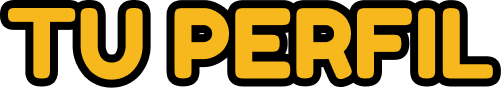
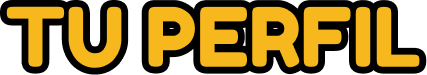
usuario niño done

diff --git a/front/usuarioniño/usuarioniño.css b/front/usuarioniño/usuarioniño.css
@@ -1,8 +1,6 @@
 body {
     background-color: #A3DFF2;
     display: flex;
-    width: 1440px;
-    height: 1024px;
 }
 
 @font-face {
@@ -28,11 +26,11 @@ img.visible {
 
 .cartel {
     position: absolute;
-    width: 1223px;
-    height: 825px;
+    width: 1114px;
+    height: 583px ;
     opacity: 1;
-    top: 99px;
-    left: 105px;
+    top: 80px;
+    left: 96px;
 }
 
 .pelo {
@@ -65,13 +63,13 @@ img.visible {
 
 .nombreyapellido {
     position: absolute;
-    top: 540px;
+    top: 390px;
     left: 200px;
     width: 652px;
     height: 58px;
     opacity: 1;
     font-family: "Fredoka One";
-    font-size: 48px;
+    font-size: 45px;
     line-height: 100%;
     letter-spacing: 0%;
     vertical-align: bottom;
@@ -84,13 +82,13 @@ img.visible {
 
 .ratio {
     position: absolute;
-    top: 640px;
+    top: 470px;
     left: 200px;
     width: 652px;
     height: 58px;
     opacity: 1;
     font-family: "Fredoka One";
-    font-size: 48px;
+    font-size: 45px;
     line-height: 100%;
     letter-spacing: 0%;
     vertical-align: bottom;
@@ -103,13 +101,13 @@ img.visible {
 
 .trofeos {
     position: absolute;
-    top: 740px;
+    top: 550px;
     left: 200px;
     width: 652px;
     height: 58px;
     opacity: 1;
     font-family: "Fredoka One";
-    font-size: 48px;
+    font-size: 45px;
     line-height: 100%;
     letter-spacing: 0%;
     vertical-align: bottom;
@@ -122,76 +120,76 @@ img.visible {
 
 .caminito {
     position: absolute;
-    width: 406px;
-    height: 558px;
+    width: 299.7705993652344px;
+    height: 412px;
     opacity: 1;
-    top: 276px;
-    left: 823px;
+    top: 221px;
+    left: 854px;
 }
 
 .tiritas {
     position: absolute;
-    width: 1070.41015625px;
-    height: 227.0563201904297px;
+    width: 1075px;
+    height: 159px;
     opacity: 1;
     top: -1px;
-    left: 184.09px;
+    left: 121px;
     z-index: 1000;
 }
 
 .circulo {
     position: absolute;
-    width: 100px;
-    height: 100px;
+    width: 80px;
+    height: 80px;
     opacity: 1;
-    top: 144px;
-    left: 160px;
+    top: 94px;
+    left: 123px;
 }
 
 .circulito {
     position: absolute;
-    width: 100px;
-    height: 100px;
+    width: 80px;
+    height: 80px;
     opacity: 1;
-    top: 144px;
-    left: 1159px;
+    top: 94px;
+    left: 1097px;
 }
 
 .trofeo1 {
     position: absolute;
-    width: 95px;
-    height: 95px;
-    top: 285px;
-    left: 896px;
+    width: 70px;
+    height: 70px;
+    top: 225px;
+    left: 905px;
     opacity: 1;
     z-index: 1500;
 }
 
 .trofeo2 {
     position: absolute;
-    width: 95px;
-    height: 95px;
-    top: 323px;
-    left: 1024px;
+    width: 70px;
+    height: 70px;
+    top: 260px;
+    left: 1000px;
     opacity: 1;
     z-index: 1500;
 }
 
 .trofeo3 {
     position: absolute;
-    width: 95px;
-    height: 95px;
-    top: 431px;
-    left: 885px;
+    width: 70px;
+    height: 70px;
+    top: 340px;
+    left: 895px;
     opacity: 1;
     z-index: 1500;
 }
 
 .trofeo4 {
     position: absolute;
-    width: 95px;
-    height: 95px;
-    top: 558px;
+    width: 70px;
+    height: 70px;
+    top: 440px;
     left: 953px;
     opacity: 1;
     z-index: 1500;
@@ -199,20 +197,20 @@ img.visible {
 
 .trofeo5 {
     position: absolute;
-    width: 95;
-    height: 95;
-    top: 717px;
-    left: 1089px;
+    width: 70px;
+    height: 70px;
+    top: 510px;
+    left: 1070px;
     opacity: 1;
     z-index: 1500;
 }
 
 .trofeo6 {
     position: absolute;
-    width: 95;
-    height: 95;
-    top: 709px;
-    left: 918px;
+    width: 70px;
+    height: 70px;
+    top: 550px;
+    left: 940px;
     opacity: 1;
     z-index: 1500;
 }
@@ -222,15 +220,16 @@ img.visible {
     width: 107px;
     height: 69.20108795166016px;
     opacity: 1;
-    top: 10px;
-    left: 29px;
+    top: 5px;
+    left: 25px;
     background-color: transparent;
     border: none;
+    z-index: 1500;
 }
 
 .tuperfil {
     position: absolute;
     opacity: 1;
-    top: 137px;
-    left: 475px;
+    top: 94px;
+    left: 434px;
 }
